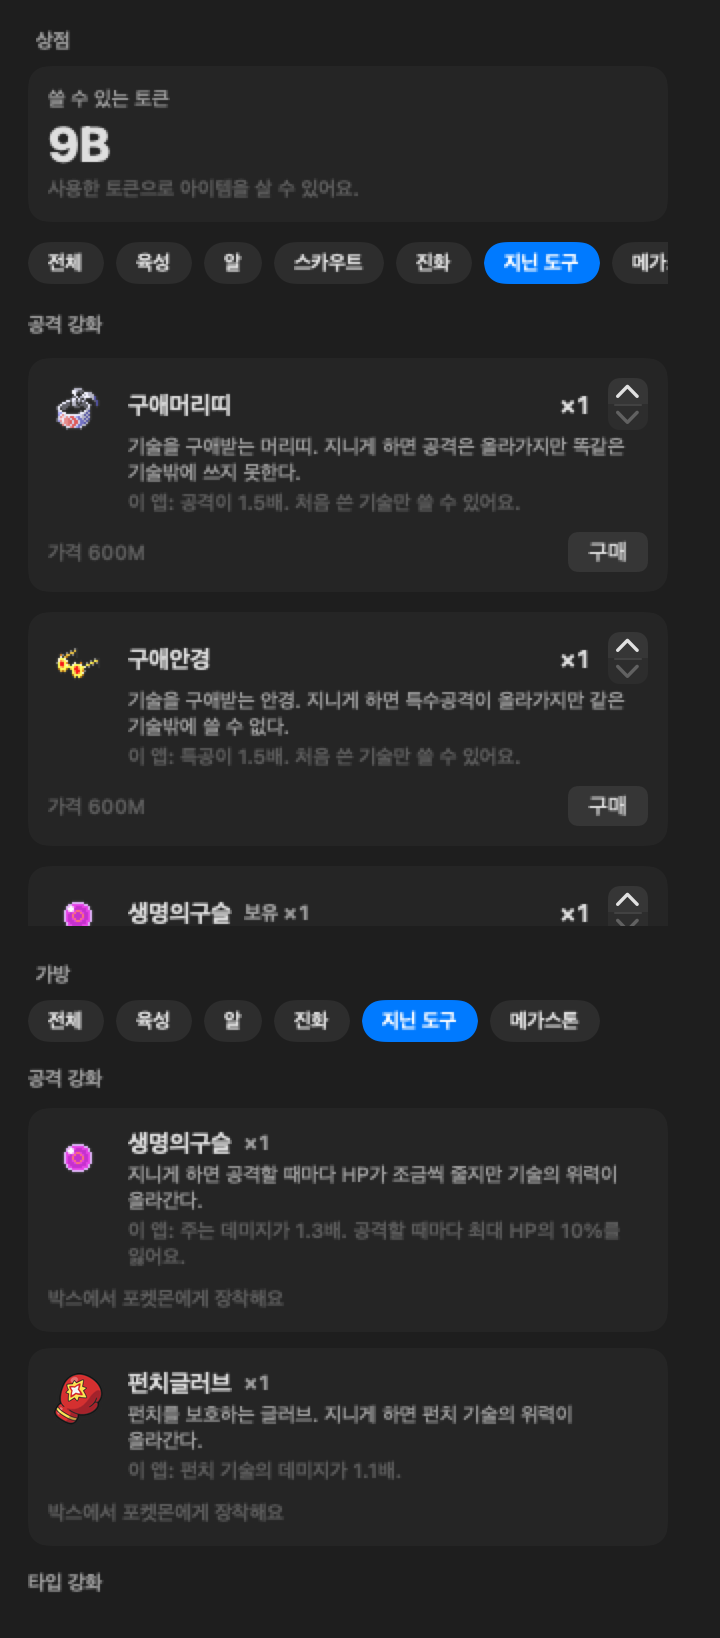
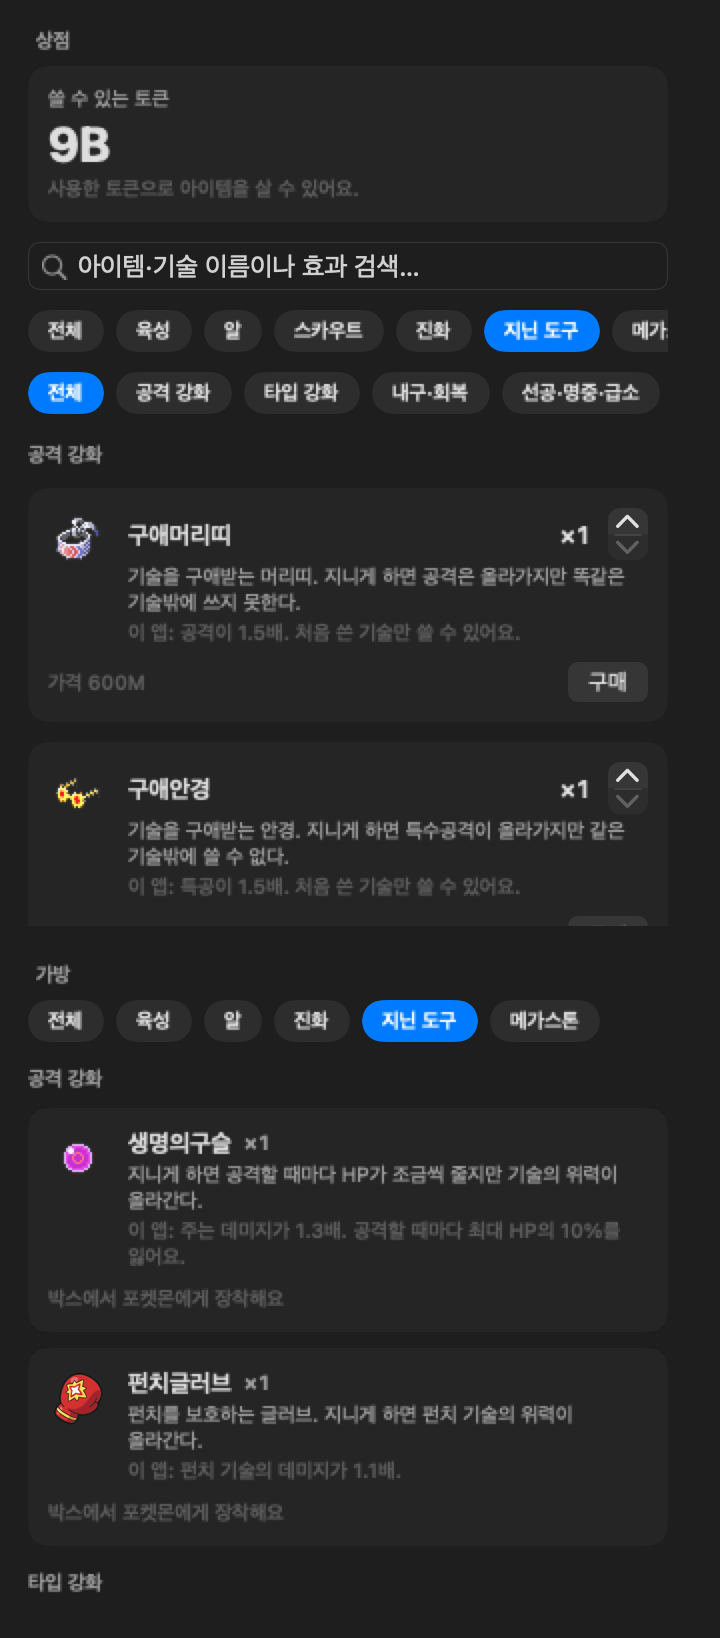
docs: add a README image of the shop search, and redraw the battle, shop, held-item and home images

diff --git a/Tests/PokeTokenBarTests/ReadmeScreenshotTests.swift b/Tests/PokeTokenBarTests/ReadmeScreenshotTests.swift
@@ -99,6 +99,8 @@ final class ReadmeScreenshotTests: XCTestCase {
             try await shot(popover { $0.tab = .shop }, "screenshot-shop\(suffix)", in: dir, height: 640)
             try await shot(popover { $0.tab = .bag }, "screenshot-bag\(suffix)", in: dir, height: 420)
             try await shot(heldItems(store: store), "screenshot-held-items\(suffix)", in: dir, height: nil)
+            try await shot(shopSearch(store: store, language: language), "screenshot-shop-search\(suffix)", in: dir,
+                           height: nil)
             try await shot(popover { $0.tab = .dex }, "screenshot-collection-pokedex\(suffix)", in: dir, height: 420)
             try await shot(popover { $0.tab = .box }, "screenshot-collection-box\(suffix)", in: dir, height: 420)
             try await shot(popover { $0.openBoxDetail(id: BoxDexFixture.charizardID) },
@@ -343,6 +345,13 @@ final class ReadmeScreenshotTests: XCTestCase {
         }
         .padding(PopoverMetrics.padding)
         .environment(store)
+    }
+
+    private func shopSearch(store: CompanionStore, language: AppLanguage) -> some View {
+        let query = language == .ko ? "구슬" : "orb"
+        return ShopView(store: store, nav: PopoverNavigation(), searchQuery: query)
+            .padding(PopoverMetrics.padding)
+            .environment(store)
     }
 
     private func cropped<Content: View>(_ title: String, height: CGFloat,

diff --git a/scripts/release-asset-gate.py b/scripts/release-asset-gate.py
@@ -31,7 +31,8 @@ REMOVED_TOOLS = ("ccusage",)
 # at least one of its families had every language variant changed in range. Unlisted files fall back to
 # "some README image changed".
 SCREENS = (
-    ("ShopView.swift", ("screenshot-shop", "screenshot-held-items")),
+    ("ShopView.swift", ("screenshot-shop", "screenshot-held-items", "screenshot-shop-search")),
+    ("BattleGroupChips.swift", ("screenshot-held-items",)),
     ("ScoutView.swift", ("screenshot-shop",)),
     ("MachineShopSection.swift", ("screenshot-shop",)),
     ("ItemCategoryChips.swift", ("screenshot-shop", "screenshot-bag")),

diff --git a/README.md b/README.md
@@ -139,9 +139,16 @@ The tokens you've already used are your currency. Buy several consumables at onc
 <tr>
 <td width="55%" valign="middle">
 <h3>⚔ Battle items, grouped by what they do</h3>
-The <b>Held items</b> tab in the Shop and the Bag sorts battle items under short headers: attack boost, type boost, bulk &amp; healing, speed, aim &amp; crits, status &amp; counters, weather and signature items.
+The <b>Held items</b> tab in the Shop and the Bag sorts battle items under short headers: attack boost, type boost, bulk &amp; healing, speed, aim &amp; crits, status &amp; counters, weather and signature items. In the Shop, a second chip row shows one group at a time.
 </td>
 <td width="45%" align="center"><img src="assets/screenshot-held-items.png" width="300" alt="Held items in the Shop and the Bag, under Attack boost and Type boost headers"></td>
+</tr>
+<tr>
+<td width="45%" align="center"><img src="assets/screenshot-shop-search.png" width="300" alt="The Shop searched for orb — Life Orb, Flame Orb and Toxic Orb under their usual headers"></td>
+<td width="55%" valign="middle">
+<h3>🔎 Search the whole shop</h3>
+One search field above the chips covers every item, Mega Stone, egg, scouting ticket and TM. Names match in any of the app's eight languages, so "orb" finds Life Orb in the Japanese UI too, and effect text matches in your language. Results keep the Shop's headers and order whatever chip is picked; clear the field to go back.
+</td>
 </tr>
 <tr>
 <td width="55%" valign="middle">
@@ -211,7 +218,7 @@ The Shop's Growth tab adds the <b>Ability Capsule</b> (the other regular ability
 <td width="45%" align="center"><img src="assets/screenshot-battle.png" width="300" alt="Battle tab, Entry sub-tab — up to six Pokémon in fighting order"><br><br><img src="assets/screenshot-gyms.png" width="300" alt="Gym leaders, Elite Four, hideout and the badge case"></td>
 <td width="55%" valign="middle">
 <h3>⚔ Gyms, the Elite Four, and a badge case</h3>
-With the <a href="bot/README.md">YPoke</a> link set up, the <b>Battle</b> tab has three sub-tabs. <b>Entry</b> holds up to six Pokémon that fight in order, <b>Battle</b> holds the gyms, and <b>History</b> lists your recent battles. When one faints the next comes in; nothing switches mid-battle. <b>Auto</b> sends the Pokémon you're raising.
+With the <a href="bot/README.md">YPoke</a> link set up, the <b>Battle</b> tab has three sub-tabs. <b>Entry</b> holds up to six Pokémon that fight in order, <b>Battle</b> holds the gyms, and <b>History</b> lists your recent battles. When one faints the next comes in; nothing switches mid-battle. <b>Auto</b> sends the Pokémon you're raising. Each row shows the stats it fights with at its battle level, with ↑ and ↓ on the stats its nature raises and lowers, and follows the Pokémon's form.
 <br><br>
 Under <b>Gyms</b>, each region has eight leaders with their own type and team. Your entry fights at Lv50 or below, and nothing is posted to Slack. A win earns the badge and can grant a TM. Eight badges open the <b>Elite Four</b> run, and the <b>hideout</b> is a run of battles in a row: your team is fully healed before each one, and a loss starts the run again. The <b>badge case</b> shows each region's badges.
 </td>
@@ -273,7 +280,7 @@ Reset countdowns include the clock time, and the colored percentage stays aligne
 - **Usage streak** — a flame beside the recap shortcut shows consecutive usage days, from two days onward. It stays gray until today's first usage extends the streak.
 - **Sprite recovery** — failed animated-sprite downloads retry automatically while the fallback remains visible.
 - **Additional scan folders** — per-provider extra scan roots for logs kept outside the built-in paths (Settings → Advanced).
-- **Several Claude accounts** — Claude Code logins kept in their own config folder (`CLAUDE_CONFIG_DIR`) each get a tab under the official limits, with their own gauges, Rare Candy, alerts, and today/month tokens. `~/.claude-*` folders and an exported `CLAUDE_CONFIG_DIR` are found automatically; add others in Settings → Advanced. The menu bar percentage, companion mood, and forecast follow the account you used last (Settings → General → Tracked Claude account). Each account can take its own claude.ai session key (Settings → Advanced), so its limits keep refreshing without the Keychain.
+- **Several Claude accounts** — Claude Code logins kept in their own config folder (`CLAUDE_CONFIG_DIR`) each get a tab under the official limits, with their own gauges, Rare Candy, alerts, and today/month tokens. `~/.claude-*` folders and an exported `CLAUDE_CONFIG_DIR` are found automatically; add others in Settings → Advanced. A folder pinned with `CLAUDE_SECURESTORAGE_CONFIG_DIR` that holds only a `.credentials.json` is found too. A rate-limited account keeps its tab, with a line saying when refresh resumes. The menu bar percentage, companion mood, and forecast follow the account you used last (Settings → General → Tracked Claude account). Each account can take its own claude.ai session key (Settings → Advanced), so its limits keep refreshing without the Keychain.
 - **Burn-rate forecast** — projects when the current 5h window hits 100%.
 - **In-app updates** — installs new fork releases by itself (checksum-verified), or on one click when automatic updates are off; current version shown in Settings.
 - **Usage recap** — a Pokédex-style recap of any week, month, or year (total, meters, comparison, best day, best streak, graduations). Hover a meter for its date and full token count, and jump back to This week / This month / This year in one click. History is kept locally for this year and the last.
